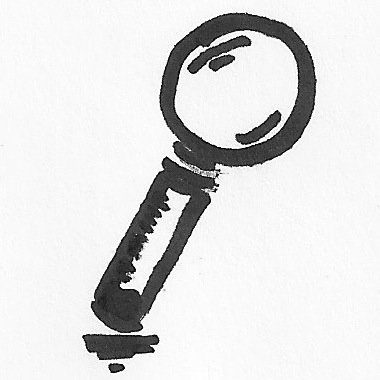
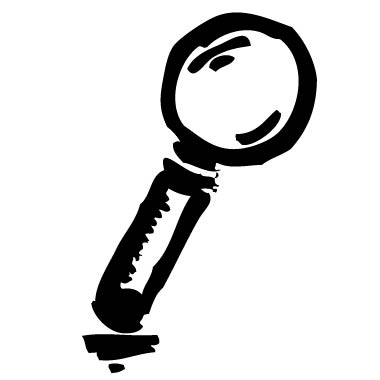
Whitened pictures on index.html

Changed region(s): [[0.2026, 0.0289, 0.8395, 0.9842]]

diff --git a/AmphibiansReptiles/index.html b/AmphibiansReptiles/index.html
@@ -74,7 +74,7 @@
 					<div class="container" style="height: 375px; width: 100%">
 						<h2>Educate Yourself<br><br></h2>
 					<img src="img/magnifyingLens.jpg" class="img-polaroid pull-right" width="140px" height="140px"/>
-					<p align="justify">Learn about the amphibians and reptiles of Cyprus! No matter if you are a Cyprus residents or just visiting the island:
+					<p align="left">Learn about the amphibians and reptiles of Cyprus! No matter if you are a Cyprus residents or just visiting the island:
 						this is where you will find your answers!</p>
 					<br>
 					</div>
@@ -84,7 +84,7 @@
 					<div class="container" style="height: 375px; width: 100%">
 						<h2>Submit A Photo<br><small><i>unknown species</i></small></h2>
 					<img src="img/picture.jpg" class="img-polaroid pull-right" width="140px" height="140px"/>
-					<p align="justify">If you observed a frog, lizard, snake, or terrapin in nature, AND took a photo of your observation, 
+					<p align="left">If you observed a frog, lizard, snake, or terrapin in nature, AND took a photo of your observation, 
 						you can upload the photo here, together with information on where and when you took the photo.
 						 We will identify the species for you, and if requested, email you with information about the species identified.</p>
 					<br>
@@ -95,11 +95,11 @@
 					<div class="container" style="height: 375px; width: 100%">
 						<h2>Report A Sighting<br><small><i>known species</i></small></h2>
 					<img src="img/notebook.jpg" class="img-polaroid pull-right" width="140px" height="140px"/>
-					<p align="justify">If you observed a frog, lizard, snake, or terrapin in nature, AND were able to identify the species, 
+					<p align="left">If you observed a frog, lizard, snake, or terrapin in nature, AND were able to identify the species, 
 						you can submit your record here, together with information on where and when you made the identification.</p>
 					<br>
 					</div>
-					<p><a class="btn btn-large btn-danger span11" href="scientificNameForm.html">Submit Scientific Name &raquo;</a></p>
+					<p><a class="btn btn-large btn-danger span11" href="scientificNameForm.html">Report Sighting &raquo;</a></p>
 				</div>
 			</div>
 			<!-- END row of columns -->

diff --git a/AmphibiansReptiles/submitPhotoForm.html b/AmphibiansReptiles/submitPhotoForm.html
@@ -145,7 +145,7 @@
 				<label class="control-label" for="inputSightingDate">Date of Sighting</label>
 					<div class="controls">
 						<input id="inputSightingDate" name="inputSightingDate" class="span3" type="text" placeholder="select date..."></input>
-						<input id="inputTime" name="inputTime" type="time" placeholder="Time (24hr)" data-mask="99:99">
+						<input id="inputTime" name="inputTime" type="time" placeholder="Time 24hr" data-mask="99:99">
 					</div>
 			</div>
 			
